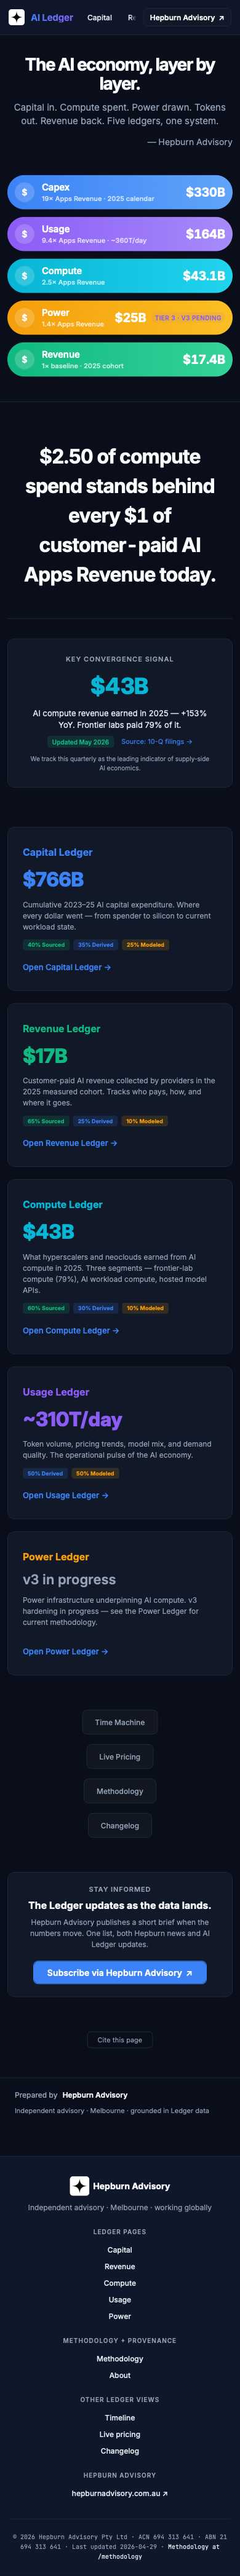
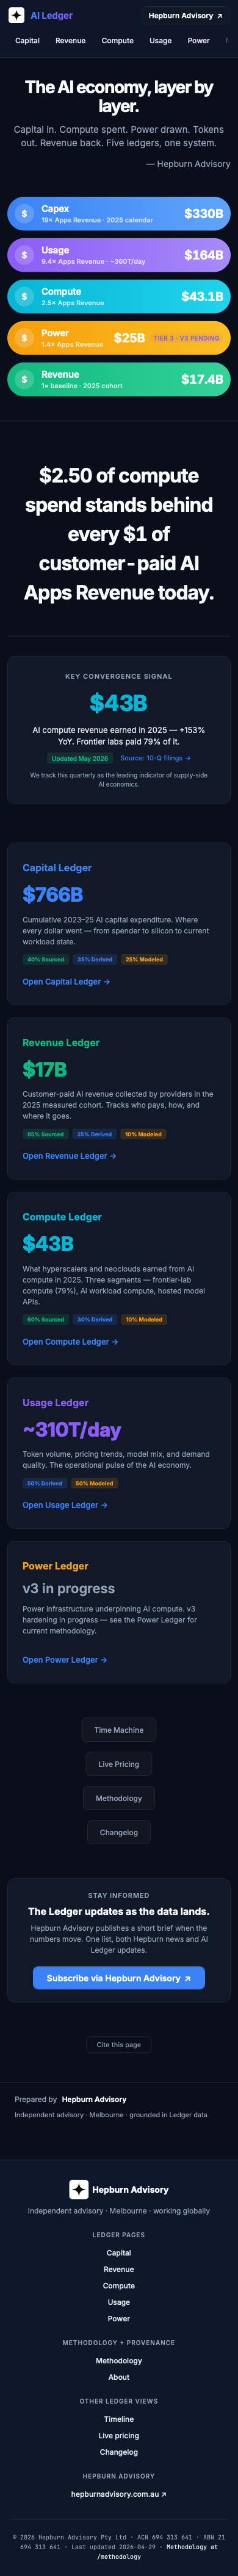
fix(mobile): 2-row header on portrait + lock AIS sub font size
Two issues Simon flagged on phone-portrait 2026-05-07:

1. **Header overlap.** At 375px, the Hepburn Advisory CTA was sitting
   flush-right with `margin-left: auto` while the primary nav had
   `flex: 1` + horizontal scroll + a right-edge mask gradient. Net
   effect: only "Capital" was visible; the other 6 nav links scrolled
   under the CTA's space and the mask hid the indication.

   Fix: at <=768px, the header wraps to 2 rows. Row 1 carries the brand
   on the left and the Hepburn Advisory CTA on the right (margin-left:
   auto still pushes it). Row 2 carries the nav at full container width
   (flex: 0 0 100%), with horizontal scroll + mask gradient preserved,
   so all 7 links are reachable without competing with the CTA. Tightened
   the mask cutoff 90% → 95% so the gradient fade is less aggressive on
   the smaller-typed mobile links.

2. **Power bar "1.4× Apps Revenue" rendering smaller** than the same
   sub-line on other bars on iOS Safari. Caused by Safari's
   text-size-adjust auto-scaling kicking in for narrow flex children.

   Fix: lock html to `text-size-adjust: 100%` (both -webkit- and
   standard) so the OS doesn't second-guess the type ramp. Replaced
   `var(--text-xs)` with explicit `11px` on .ais-sub for belt-and-
   braces, and added `flex-shrink: 0` so the column-flex sub never
   compresses regardless of parent intrinsic size pressure.

Tests: homepage + admin-nav specs = 52/52 pass on desktop-chrome.
Visual baselines for index regenerated.

diff --git a/design-system/ledger-overlays.css b/design-system/ledger-overlays.css
@@ -178,16 +178,23 @@
 .ds-header__cta:hover { border-color: var(--blue); }
 
 @media (max-width: 768px) {
-  .ds-header { padding: 10px 14px; gap: 12px; }
+  /* Two-row header on mobile portrait so the Hepburn Advisory CTA can't sit
+     over the nav. Brand + CTA share row 1; nav gets its own full-width row 2
+     so all 7 links are reachable via horizontal scroll without overlap.
+     Simon flagged this 2026-05-07 — at 375px only "Capital" was visible. */
+  .ds-header { padding: 10px 14px; gap: 8px 12px; flex-wrap: wrap; }
+  .ds-header__brand { order: 1; }
   .ds-header__brand-sub { display: none; }
+  .ds-header__cta { order: 2; margin-left: auto; font-size: 12px; padding: 8px 10px; }
   .ds-header__nav {
-    flex: 1;
+    order: 3;
+    flex: 0 0 100%;
+    width: 100%;
     -webkit-overflow-scrolling: touch;
-    mask-image: linear-gradient(to right, black 90%, transparent 100%);
-    -webkit-mask-image: linear-gradient(to right, black 90%, transparent 100%);
+    mask-image: linear-gradient(to right, black 95%, transparent 100%);
+    -webkit-mask-image: linear-gradient(to right, black 95%, transparent 100%);
   }
   .ds-header__nav-link { font-size: 12px; padding: 8px 10px; min-height: 36px; display: inline-flex; align-items: center; }
-  .ds-header__cta { font-size: 12px; padding: 8px 10px; }
 }
 
 /* ============================================================

diff --git a/index.html b/index.html
@@ -25,6 +25,10 @@
     --apps:#a855f7; --compute:#06b6d4; --silicon:#fb7185;
   }
   *{margin:0;padding:0;box-sizing:border-box;}
+  /* iOS Safari shrinks text in narrow flex children unless we lock auto-adjust;
+     Simon saw the Power bar's "1.4× Apps Revenue" rendering smaller than the
+     same sub on the other bars 2026-05-07. Locking to 100% normalises rendering. */
+  html{-webkit-text-size-adjust:100%;text-size-adjust:100%;}
   body{font-family:'Inter',-apple-system,BlinkMacSystemFont,'SF Pro Display',sans-serif;background:var(--bg);color:var(--text);min-height:100vh;}
 
   /* ── Shared Nav ── */
@@ -79,7 +83,7 @@
   .ais-icon{flex:0 0 36px;width:36px;height:36px;border-radius:50%;background:rgba(255,255,255,0.18);display:flex;align-items:center;justify-content:center;color:#fff;font-weight:var(--weight-semi);font-size:16px;font-family:var(--font-sans);}
   .ais-text{flex:1 1 auto;display:flex;flex-direction:column;justify-content:center;margin-left:12px;min-width:0;overflow:hidden;}
   .ais-label{font-weight:var(--weight-semi);font-size:var(--text-md);color:#fff;line-height:1.2;letter-spacing:-0.01em;white-space:nowrap;overflow:hidden;text-overflow:ellipsis;}
-  .ais-sub{font-weight:var(--weight-medium);font-size:var(--text-xs);color:rgba(255,255,255,0.75);line-height:1.3;margin-top:2px;white-space:nowrap;overflow:hidden;text-overflow:ellipsis;}
+  .ais-sub{font-weight:var(--weight-medium);font-size:11px;color:rgba(255,255,255,0.75);line-height:1.3;margin-top:2px;white-space:nowrap;overflow:hidden;text-overflow:ellipsis;flex-shrink:0;}
   .ais-note{font-weight:var(--weight-regular);font-style:italic;font-size:10px;color:rgba(255,255,255,0.85);line-height:1.3;margin-top:1px;white-space:nowrap;overflow:hidden;text-overflow:ellipsis;}
   .ais-figure{flex:0 0 auto;font-weight:var(--weight-bold);font-size:var(--text-2xl);color:#fff;font-family:var(--font-sans);font-variant-numeric:tabular-nums;letter-spacing:-0.3px;margin-left:16px;white-space:nowrap;}
   .ais-figure-out{position:absolute;left:calc(100% + 12px);top:50%;transform:translateY(-50%);font-weight:var(--weight-bold);font-size:var(--text-2xl);color:var(--fg-dark-1);font-family:var(--font-sans);font-variant-numeric:tabular-nums;letter-spacing:-0.3px;white-space:nowrap;display:flex;align-items:center;gap:8px;}